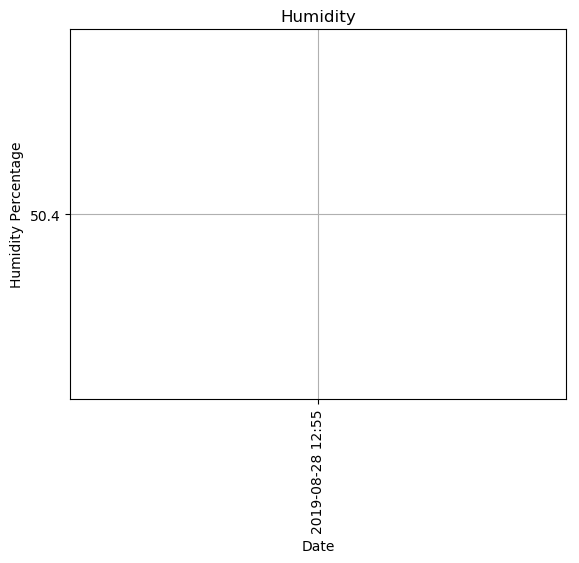
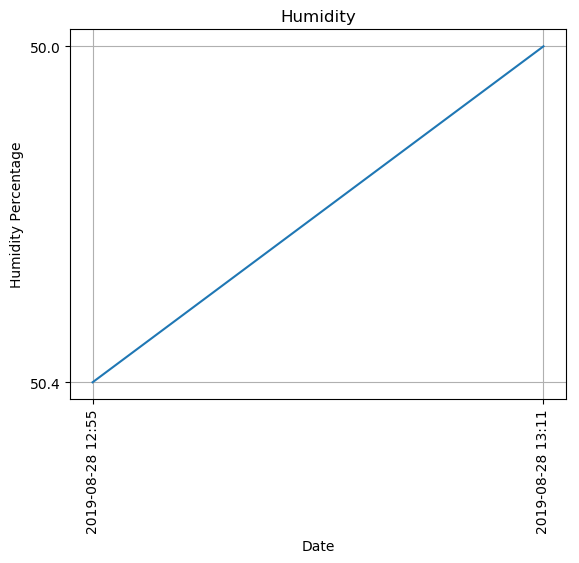
2019-08-28 13:11

diff --git a/monitor.py b/monitor.py
@@ -52,9 +52,12 @@ temperatureContent = [x.strip() for x in temperatureContent]
 
 temperatureTimeList = []
 temperatureDataList = []
+i = 0
 for e in temperatureContent:
-	temperatureTimeList.append(e.split(',')[0])
-	temperatureDataList.append(e.split(',')[1])
+	if i < 49:
+		temperatureTimeList.append(e.split(',')[0])
+		temperatureDataList.append(e.split(',')[1])
+		i = i + 1
 
 plt.plot(temperatureTimeList, temperatureDataList)
 plt.ylabel('Degrees Celsius')
@@ -77,9 +80,12 @@ humidityContent = [x.strip() for x in humidityContent]
 
 humidityTimeList = []
 humidityDataList = []
+i = 0
 for e in humidityContent:
-	humidityTimeList.append(e.split(',')[0])
-	humidityDataList.append(e.split(',')[1])
+	if i < 49:
+		humidityTimeList.append(e.split(',')[0])
+		humidityDataList.append(e.split(',')[1])
+		i = i + 1
 
 #print(humidityDataList)
 
